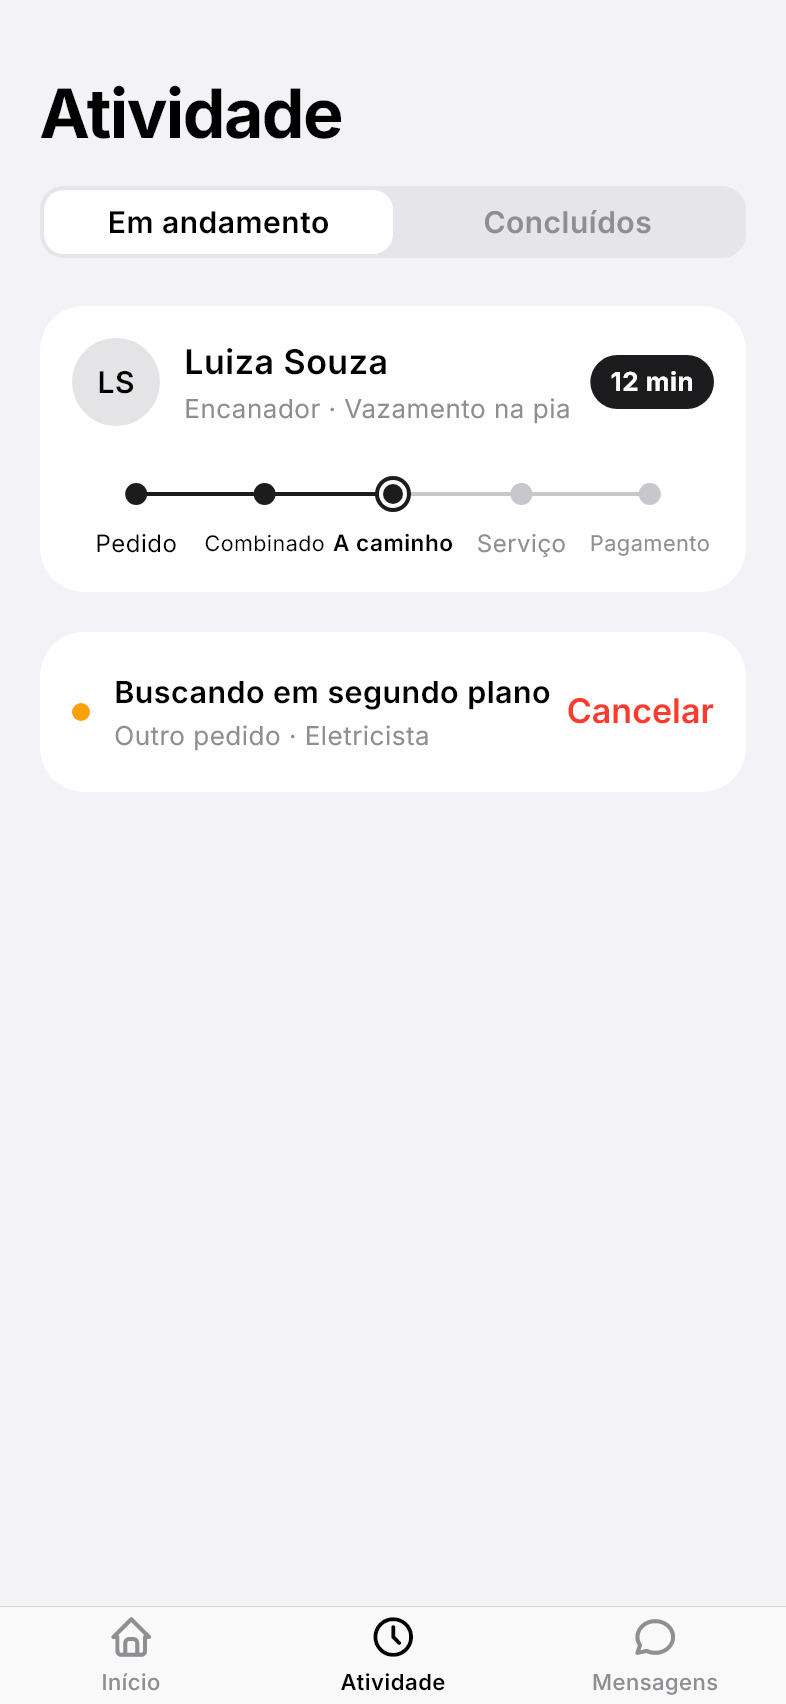
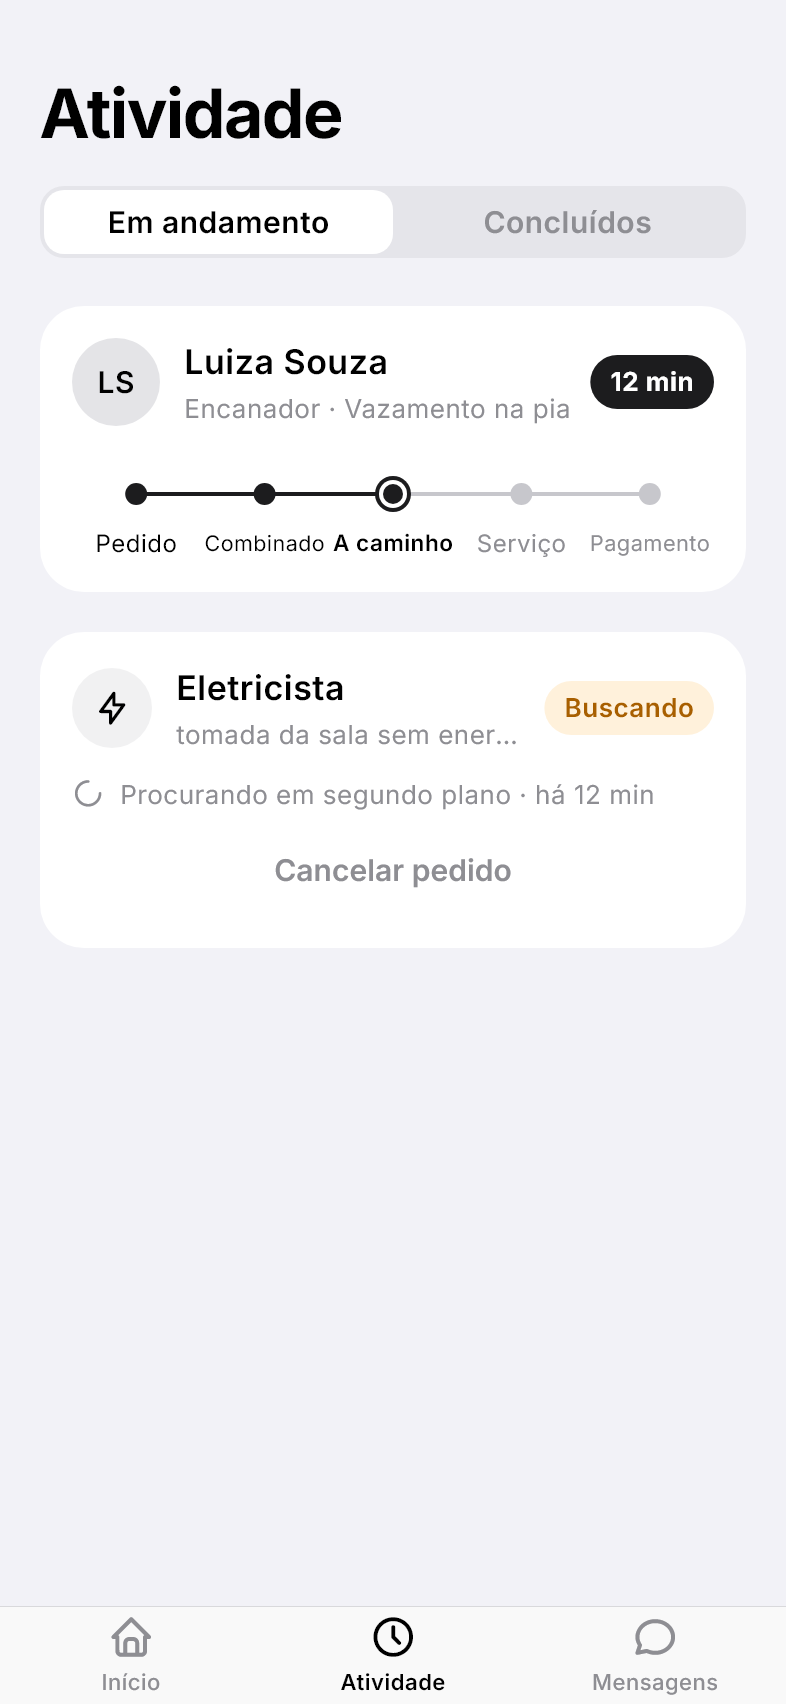
Atividade: novo cartão de busca em segundo plano

Changed region(s): [[0.0916, 0.3732, 0.916, 0.4665], [0.3359, 0.4665, 0.6412, 0.5288]]

diff --git a/app/lib/features/cliente/atividade/atividade_page.dart b/app/lib/features/cliente/atividade/atividade_page.dart
@@ -6,10 +6,12 @@ import '../../../core/theme/tatu_medidas.dart';
 import '../../../core/theme/tatu_texto.dart';
 import '../../../core/theme/tatu_theme.dart';
 import '../../../data/pedidos.dart';
+import '../../../data/servicos.dart';
 import '../../../shared/widgets/abas_cliente.dart';
 import '../../../shared/widgets/avatar_iniciais.dart';
 import '../../../shared/widgets/estado_vazio.dart';
 import '../../../shared/widgets/estrelas.dart';
+import '../../../shared/widgets/grupo_cartao.dart';
 import '../../../shared/widgets/linha_do_tempo.dart';
 import '../../../shared/widgets/segmento.dart';
 import '../../../shared/widgets/tatu_chip.dart';
@@ -201,50 +203,70 @@ class _BuscaCompacta extends StatelessWidget {
   @override
   Widget build(BuildContext context) {
     return _Cartao(
-      child: Row(
+      child: Column(
+        crossAxisAlignment: CrossAxisAlignment.stretch,
         children: [
-          Container(
-            width: 9,
-            height: 9,
-            decoration: const BoxDecoration(
-              color: TatuColors.warning,
-              shape: BoxShape.circle,
-            ),
-          ),
-          const SizedBox(width: 12),
-          Expanded(
-            child: Column(
-              crossAxisAlignment: CrossAxisAlignment.start,
-              children: [
-                FittedBox(
-                  fit: BoxFit.scaleDown,
-                  alignment: Alignment.centerLeft,
-                  child: Text(
-                    'Buscando em segundo plano',
-                    maxLines: 1,
-                    style: TatuTexto.comentario.copyWith(
-                      fontWeight: FontWeight.w600,
+          Row(
+            children: [
+              IconeCirculo(iconeServico(busca.servico)),
+              const SizedBox(width: TatuMedidas.entreItens),
+              Expanded(
+                child: Column(
+                  crossAxisAlignment: CrossAxisAlignment.start,
+                  children: [
+                    Text(
+                      busca.servico,
+                      style: const TextStyle(
+                        fontSize: 17,
+                        fontWeight: FontWeight.w600,
+                      ),
                     ),
-                  ),
+                    const SizedBox(height: 2),
+                    Text(
+                      busca.descricao.isEmpty
+                          ? busca.endereco
+                          : busca.descricao,
+                      maxLines: 1,
+                      overflow: TextOverflow.ellipsis,
+                      style: TatuTexto.nota,
+                    ),
+                  ],
                 ),
-                const SizedBox(height: 2),
-                Text('Outro pedido · ${busca.servico}', style: TatuTexto.nota),
-              ],
-            ),
-          ),
-          TextButton(
-            style: TextButton.styleFrom(
-              foregroundColor: TatuColors.danger,
-              padding: const EdgeInsets.only(left: 8),
-              minimumSize: Size.zero,
-              textStyle: const TextStyle(
-                fontFamily: 'Inter',
-                fontSize: 17,
-                fontWeight: FontWeight.w600,
               ),
+              const SizedBox(width: 8),
+              const SeloVerde('Buscando', aviso: true, pequeno: true),
+            ],
+          ),
+          const SizedBox(height: TatuMedidas.entreItens),
+          Row(
+            children: [
+              const Icon(
+                TablerIcons.loader_2,
+                size: 16,
+                color: TatuColors.textSecondary,
+              ),
+              const SizedBox(width: 8),
+              Expanded(
+                child: Text(
+                  'Procurando em segundo plano · ${busca.haQuanto}',
+                  style: TatuTexto.nota,
+                ),
+              ),
+            ],
+          ),
+          const SizedBox(height: 4),
+          Center(
+            child: TextButton(
+              style: TextButton.styleFrom(
+                foregroundColor: TatuColors.textSecondary,
+                textStyle: TatuTexto.corpo.copyWith(
+                  fontFamily: 'Inter',
+                  fontWeight: FontWeight.w600,
+                ),
+              ),
+              onPressed: pedidos.cancelarBusca,
+              child: const Text('Cancelar pedido'),
             ),
-            onPressed: pedidos.cancelarBusca,
-            child: const Text('Cancelar'),
           ),
         ],
       ),

diff --git a/app/lib/data/pedidos.dart b/app/lib/data/pedidos.dart
@@ -63,10 +63,29 @@ class PedidoAndamento {
 /// Pedido sem ninguém aceitar ainda: a busca continua em segundo plano.
 @immutable
 class BuscaSegundoPlano {
-  const BuscaSegundoPlano({required this.servico, required this.endereco});
+  BuscaSegundoPlano({
+    required this.servico,
+    required this.endereco,
+    this.descricao = '',
+    DateTime? desde,
+  }) : desde = desde ?? DateTime.now();
 
   final String servico;
   final String endereco;
+
+  /// O que a pessoa escreveu (ex.: "tomada da sala sem energia").
+  final String descricao;
+
+  /// Quando a busca começou.
+  final DateTime desde;
+
+  /// "há 12 min", "agora", "há 1 h".
+  String get haQuanto {
+    final m = DateTime.now().difference(desde).inMinutes;
+    if (m < 1) return 'agora';
+    if (m < 60) return 'há $m min';
+    return 'há ${m ~/ 60} h';
+  }
 }
 
 /// Avaliação que a pessoa deu ao profissional.
@@ -197,9 +216,11 @@ class PedidosRepo extends ChangeNotifier {
       pagamento: 'Visa 4242',
       etapasFeitas: 3,
     );
-    busca = const BuscaSegundoPlano(
+    busca = BuscaSegundoPlano(
       servico: 'Eletricista',
       endereco: 'Rua das Flores, 120',
+      descricao: 'tomada da sala sem energia',
+      desde: DateTime.now().subtract(const Duration(minutes: 12)),
     );
     concluidos = const [
       PedidoConcluido(

diff --git a/app/lib/shared/widgets/linha_do_tempo.dart b/app/lib/shared/widgets/linha_do_tempo.dart
@@ -88,17 +88,28 @@ class _Bola extends StatelessWidget {
 
 /// Selo verde claro com a situação (ex.: "A caminho").
 class SeloVerde extends StatelessWidget {
-  const SeloVerde(this.texto, {super.key, this.aviso = false});
+  const SeloVerde(
+    this.texto, {
+    super.key,
+    this.aviso = false,
+    this.pequeno = false,
+  });
 
   final String texto;
 
   /// Laranja de atenção (ex.: "Pago direto ao profissional").
   final bool aviso;
 
+  /// Menor, para cartões de lista (ex.: "Buscando").
+  final bool pequeno;
+
   @override
   Widget build(BuildContext context) {
     return Container(
-      padding: const EdgeInsets.symmetric(horizontal: 12, vertical: 5),
+      padding: EdgeInsets.symmetric(
+        horizontal: pequeno ? 10 : 12,
+        vertical: pequeno ? 4 : 5,
+      ),
       decoration: ShapeDecoration(
         color: aviso ? TatuColors.warningSoft : TatuColors.onlineSoft,
         shape: const StadiumBorder(),
@@ -106,7 +117,7 @@ class SeloVerde extends StatelessWidget {
       child: Text(
         texto,
         style: TextStyle(
-          fontSize: 15,
+          fontSize: pequeno ? 13 : 15,
           fontWeight: FontWeight.w600,
           color: aviso ? TatuColors.warningTexto : TatuColors.onlineTexto,
         ),

diff --git a/app/test/atividade_test.dart b/app/test/atividade_test.dart
@@ -21,10 +21,14 @@ void main() {
   testWidgets('Em andamento: pedido e busca em segundo plano', (t) async {
     await _abrirAtividade(t);
     expect(find.text('Encanador · Vazamento na pia'), findsOneWidget);
-    expect(find.text('Buscando em segundo plano'), findsOneWidget);
-    await t.tap(find.text('Cancelar'));
+    expect(find.text('tomada da sala sem energia'), findsOneWidget);
+    expect(
+      find.text('Procurando em segundo plano · há 12 min'),
+      findsOneWidget,
+    );
+    await t.tap(find.text('Cancelar pedido'));
     await t.pump();
-    expect(find.text('Buscando em segundo plano'), findsNothing);
+    expect(find.text('tomada da sala sem energia'), findsNothing);
   });
 
   testWidgets('Cancelar pedido → Pedido cancelado → Ninguém aceitou', (

diff --git a/app/lib/data/servicos.dart b/app/lib/data/servicos.dart
@@ -140,3 +140,21 @@ List<ServicoCatalogo> buscarServicos(String termo) {
         s,
   ];
 }
+
+/// Ícone de um serviço (principais da Home ou do catálogo).
+IconData iconeServico(String nome) {
+  const principais = {
+    'Encanador': TablerIcons.droplet,
+    'Eletricista': TablerIcons.bolt,
+    'Pedreiro': TablerIcons.wall,
+    'Pintor': TablerIcons.brush,
+  };
+  final p = principais[nome];
+  if (p != null) return p;
+  for (final (_, lista) in gruposServicos) {
+    for (final s in lista) {
+      if (s.nome == nome) return s.icone;
+    }
+  }
+  return TablerIcons.tool;
+}

diff --git a/PROGRESSO.md b/PROGRESSO.md
@@ -46,7 +46,7 @@ Próxima tela: Gustavo envia a referência. Construir **uma tela por vez, junto 
 - [x] Procurando (C10–C12) — `chamar/procurando_page.dart` + `ninguem_ativo_page.dart`: "Chamar" e "Chamar outro" abrem a busca com mapa e radar; aos 60 s expande, aos 90 s vira "Ninguém ativo" (busca em segundo plano na Atividade, onde "Tentar de novo" reabre a busca). O "x" também deixa em segundo plano. "Chamando outro profissional" usa a mesma tela. Falta: C13 Profissional encontrado em diante
 - [x] Outros serviços (6 telas) — `features/cliente/outros/`: folha com mais pedidos, grupos e busca (resultados e nada encontrado), "Não sei qual serviço". Na Home, o escolhido fica no lugar do chip "Outros" (com setinha); "Não sei" pede a descrição e chama "profissional". Catálogo em `data/servicos.dart`. `TatuChip` com `seta`; `ItemLista` com `detalhe`. Falta: C05 conflito IA × escolha manual
 - [x] Botões da Atividade (8 telas) — Concluídos com Pedir de novo / Recibo / Avaliar (ou estrelas) e pedido cancelado; Avaliar (C22) e Sua avaliação (editar); Recibo e Comprovante (pago por fora; "Enviar por e-mail" pede o e-mail se faltar); folha Pedir de novo (mesmo profissional online/offline ou qualquer um) e Chamando o mesmo profissional (2 min, depois chama os outros). `EstrelasEscolha`, `SeloVerde(aviso:)`, `TopoTela`/`TelaInterna` com `acaoIcone`. Falta: baixar PDF e compartilhar
-- [x] Ajustes — botão enviar no chat (como no WhatsApp, preto quando há texto); ícones nos botões da Atividade (numa linha só); status em andamento com nome, serviço · descrição, selo preto com o tempo e etapas na horizontal (`LinhaDoTempoHorizontal`, `SeloPreto`).
+- [x] Ajustes — botão enviar no chat (como no WhatsApp, preto quando há texto); ícones nos botões da Atividade (numa linha só); status em andamento com nome, serviço · descrição, selo preto com o tempo e etapas na horizontal (`LinhaDoTempoHorizontal`, `SeloPreto`); busca em segundo plano em cartão (ícone do serviço, descrição, selo "Buscando", "há 12 min", Cancelar pedido; `iconeServico`, `SeloVerde(pequeno:)`).
 - [x] Padronização: `TatuMedidas`, `TatuTexto`, `TelaInterna`, `EstadoVazio`, `mostrarFolha`/`confirmar`, `LinhaIcone` (ver CLAUDE.md)
 - [ ] C1 Abertura
 - [ ] C3 Home (vazia, IA marcou, conflito, Outros)
